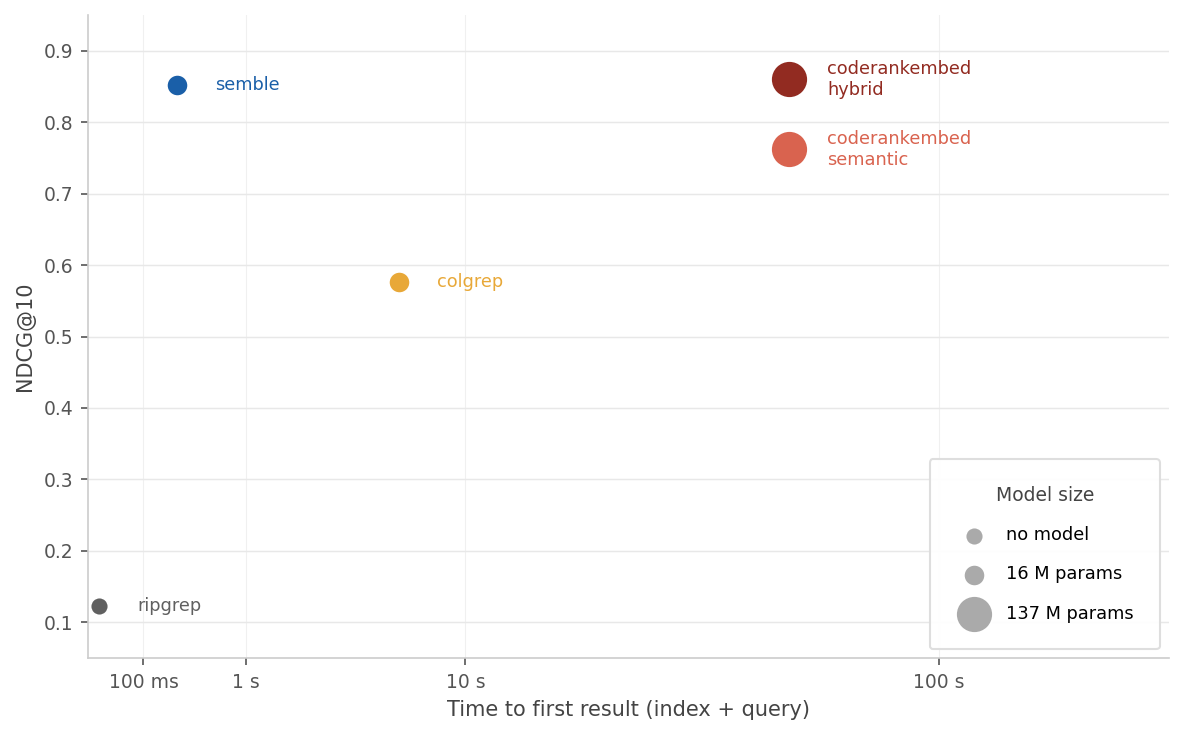
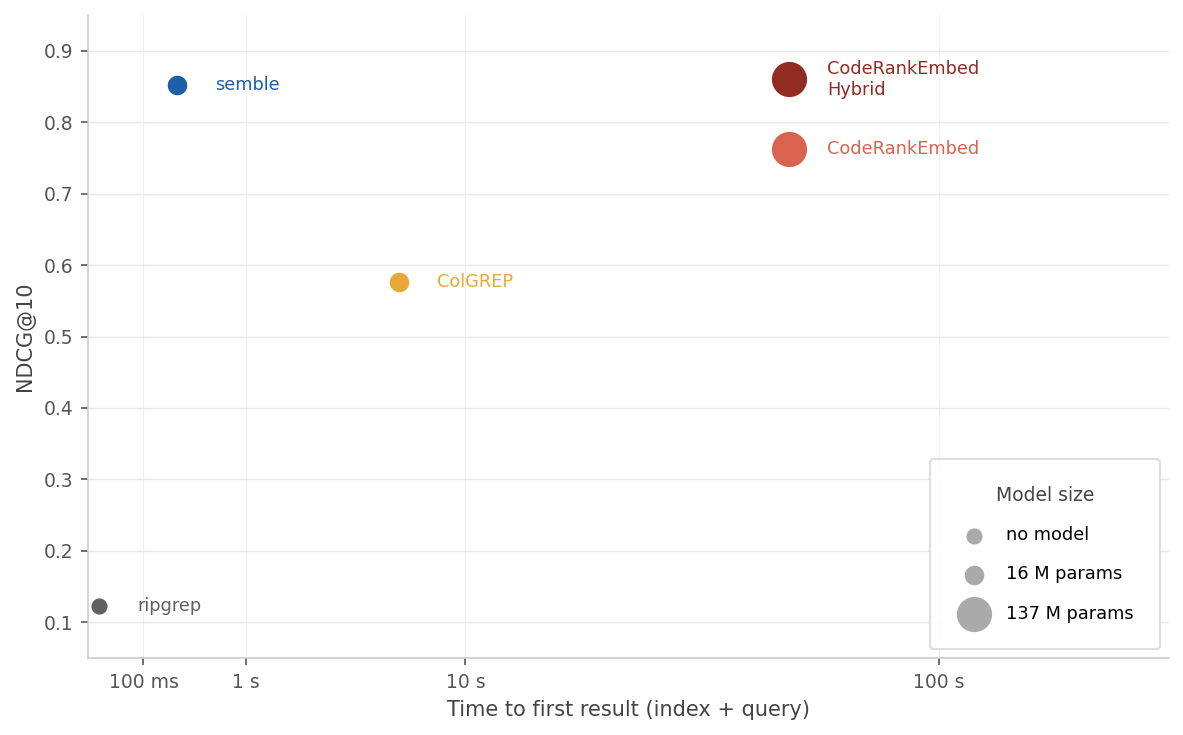
style: Correct tool names to ColGREP, CodeRankEmbed, CodeRankEmbed Hybrid

Changed region(s): [[0.6999, 0.0599, 0.8216, 0.1497], [0.6999, 0.1796, 0.8216, 0.2395], [0.3652, 0.3592, 0.426, 0.3891]]

diff --git a/benchmarks/plot.py b/benchmarks/plot.py
@@ -30,7 +30,7 @@ _METHODS: list[_Method] = [
         "params_m": 0,
     },
     {
-        "name": "colgrep",
+        "name": "ColGREP",
         "ndcg10": 0.577,
         "index_ms": 5750.6,
         "query_p50_ms": 123.83,
@@ -38,7 +38,7 @@ _METHODS: list[_Method] = [
         "params_m": 16,
     },
     {
-        "name": "coderankembed\nsemantic",
+        "name": "CodeRankEmbed",
         "ndcg10": 0.762,
         "index_ms": 57269.4,
         "query_p50_ms": 16.27,
@@ -46,7 +46,7 @@ _METHODS: list[_Method] = [
         "params_m": 137,
     },
     {
-        "name": "coderankembed\nhybrid",
+        "name": "CodeRankEmbed\nHybrid",
         "ndcg10": 0.860,
         "index_ms": 57269.4,
         "query_p50_ms": 16.27,
